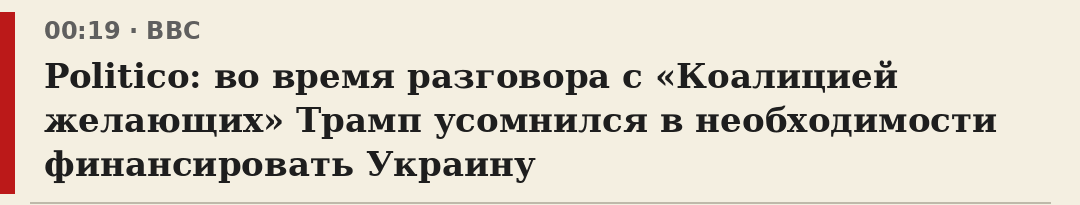
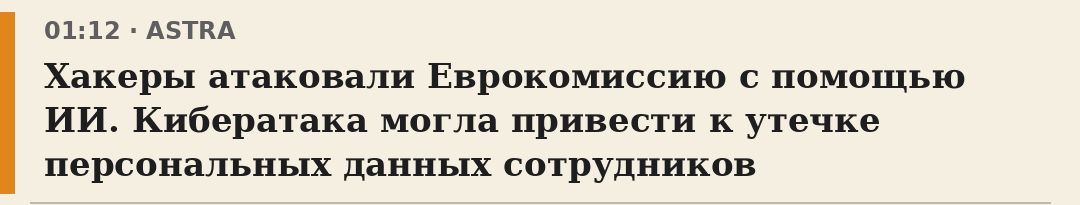
update

Changed region(s): [[0.0, 0.0585, 0.9472, 0.9659]]

diff --git a/index.html b/index.html
@@ -11,5 +11,6 @@ h1{margin:0;font-size:30px;letter-spacing:1px}
 h2{margin:0 0 6px;font-size:19px;line-height:1.25}
 p{margin:0;color:var(--gray);font-size:15px;line-height:1.4}
 .empty{text-align:center;color:var(--gray);padding:40px 0}
-</style></head><body><header><h1>НОВОСТНАЯ ГАЗЕТА</h1><div class="sub">20 ноября 2026 · BBC · Медуза · ASTRA · новостей: 2</div></header><a class="item" style="border-left:5px solid #bb1919" href="https://t.me/bbcrussian/101646"><div class="meta">00:19 · BBC</div><h2>Politico: во время разговора с «Коалицией желающих» Трамп усомнился в необходимости финансировать Украину</h2><p>Во время телефонного разговора с участниками «Коалиции желающих» в Берлине президент США Дональд Трамп усомнился в необходимости продолжать финансирование Украины, сообщает Politico со ссылкой на европейских чиновников.</p></a>
+</style></head><body><header><h1>НОВОСТНАЯ ГАЗЕТА</h1><div class="sub">20 ноября 2026 · BBC · Медуза · ASTRA · новостей: 3</div></header><a class="item" style="border-left:5px solid #e0861a" href="https://t.me/astrapress/131626"><div class="meta">01:12 · ASTRA</div><h2>Хакеры атаковали Еврокомиссию с помощью ИИ. Кибератака могла привести к утечке персональных данных сотрудников</h2><p>В начале этого месяца CERT-EU, орган по надзору за кибербезопасностью в рамках институтов ЕС, обнаружил, что неизвестные хакеры использовали для взлома ARTEX — это общедоступный инструмент на основе искусственного интеллекта, предназначенный для выявления уязвимостей в ИТ-системах, сообщает…</p></a>
+<a class="item" style="border-left:5px solid #bb1919" href="https://t.me/bbcrussian/101646"><div class="meta">00:19 · BBC</div><h2>Politico: во время разговора с «Коалицией желающих» Трамп усомнился в необходимости финансировать Украину</h2><p>Во время телефонного разговора с участниками «Коалиции желающих» в Берлине президент США Дональд Трамп усомнился в необходимости продолжать финансирование Украины, сообщает Politico со ссылкой на европейских чиновников.</p></a>
 <a class="item" style="border-left:5px solid #2f7bd9" href="https://t.me/meduzalive/150834"><div class="meta">00:10 · Медуза</div><h2>Главные новости 19 ноября</h2><p>Путин, Трамп и Си Цзиньпин встретились в Китае. Вот здесь — о том, как это было, здесь — совместная декларация лидеров, а здесь — заявления Путина (в том числе, что Россия не будет договариваться с Украиной) Украина в ночь перед встречей Трампа, Путина и Си в третий раз за неделю атаковала Крымский…</p></a></body></html>

diff --git a/r1.html b/r1.html
@@ -1,1 +1,1 @@
-<!DOCTYPE html><html><head><meta charset="utf-8"><meta http-equiv="refresh" content="0; url=https://t.me/bbcrussian/101646"><title>Открываю…</title></head><body><script>location.replace("https://t.me/bbcrussian/101646")</script><p><a href="https://t.me/bbcrussian/101646">Открыть новость</a></p></body></html>
+<!DOCTYPE html><html><head><meta charset="utf-8"><meta http-equiv="refresh" content="0; url=https://t.me/astrapress/131626"><title>Открываю…</title></head><body><script>location.replace("https://t.me/astrapress/131626")</script><p><a href="https://t.me/astrapress/131626">Открыть новость</a></p></body></html>

diff --git a/r2.html b/r2.html
@@ -1,1 +1,1 @@
-<!DOCTYPE html><html><head><meta charset="utf-8"><meta http-equiv="refresh" content="0; url=https://t.me/meduzalive/150834"><title>Открываю…</title></head><body><script>location.replace("https://t.me/meduzalive/150834")</script><p><a href="https://t.me/meduzalive/150834">Открыть новость</a></p></body></html>
+<!DOCTYPE html><html><head><meta charset="utf-8"><meta http-equiv="refresh" content="0; url=https://t.me/bbcrussian/101646"><title>Открываю…</title></head><body><script>location.replace("https://t.me/bbcrussian/101646")</script><p><a href="https://t.me/bbcrussian/101646">Открыть новость</a></p></body></html>

diff --git a/r3.html b/r3.html
@@ -1,1 +1,1 @@
-<!DOCTYPE html><html><head><meta charset="utf-8"><meta http-equiv="refresh" content="0; url=index.html"><title>Открываю…</title></head><body><script>location.replace("index.html")</script><p><a href="index.html">Открыть новость</a></p></body></html>
+<!DOCTYPE html><html><head><meta charset="utf-8"><meta http-equiv="refresh" content="0; url=https://t.me/meduzalive/150834"><title>Открываю…</title></head><body><script>location.replace("https://t.me/meduzalive/150834")</script><p><a href="https://t.me/meduzalive/150834">Открыть новость</a></p></body></html>
